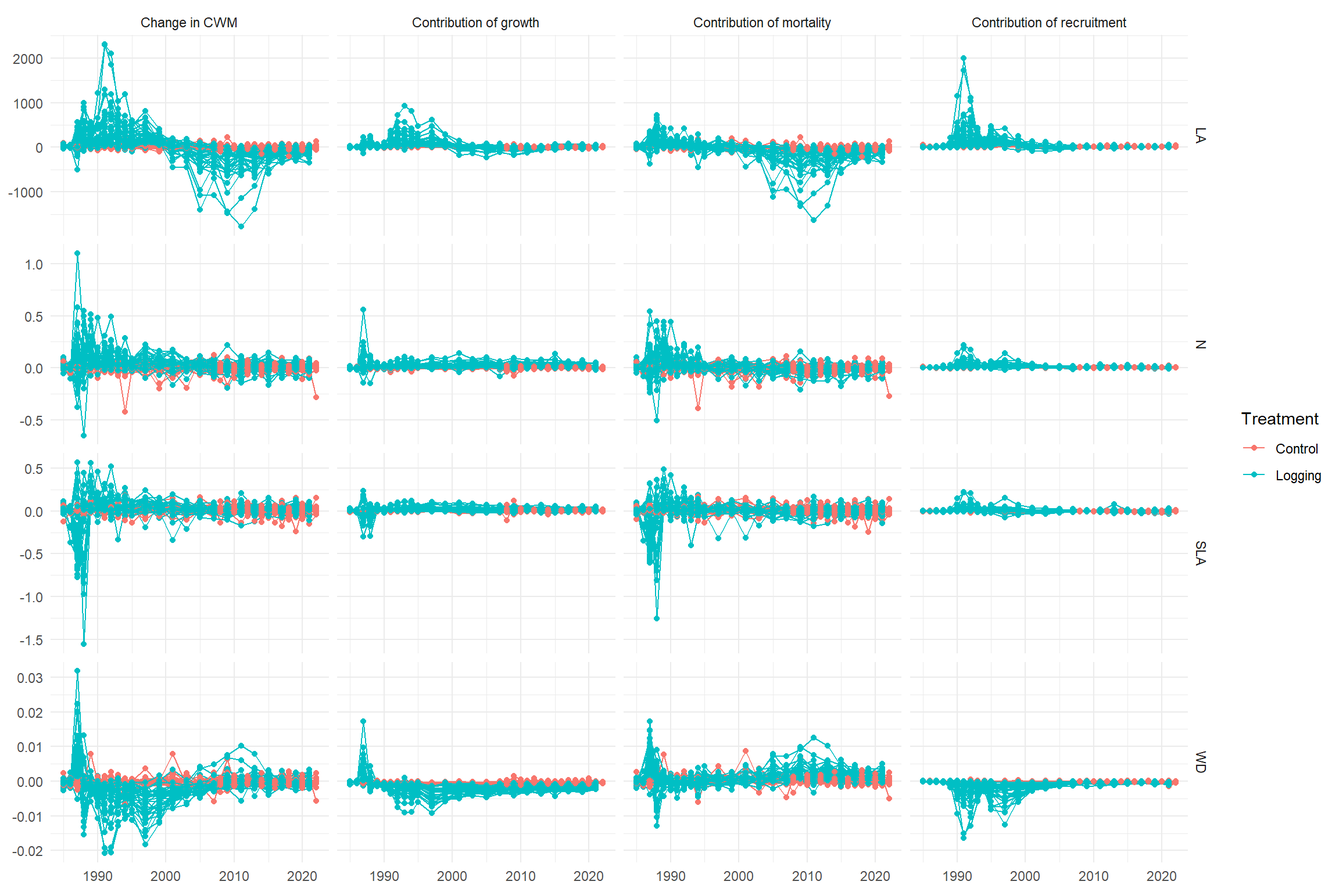
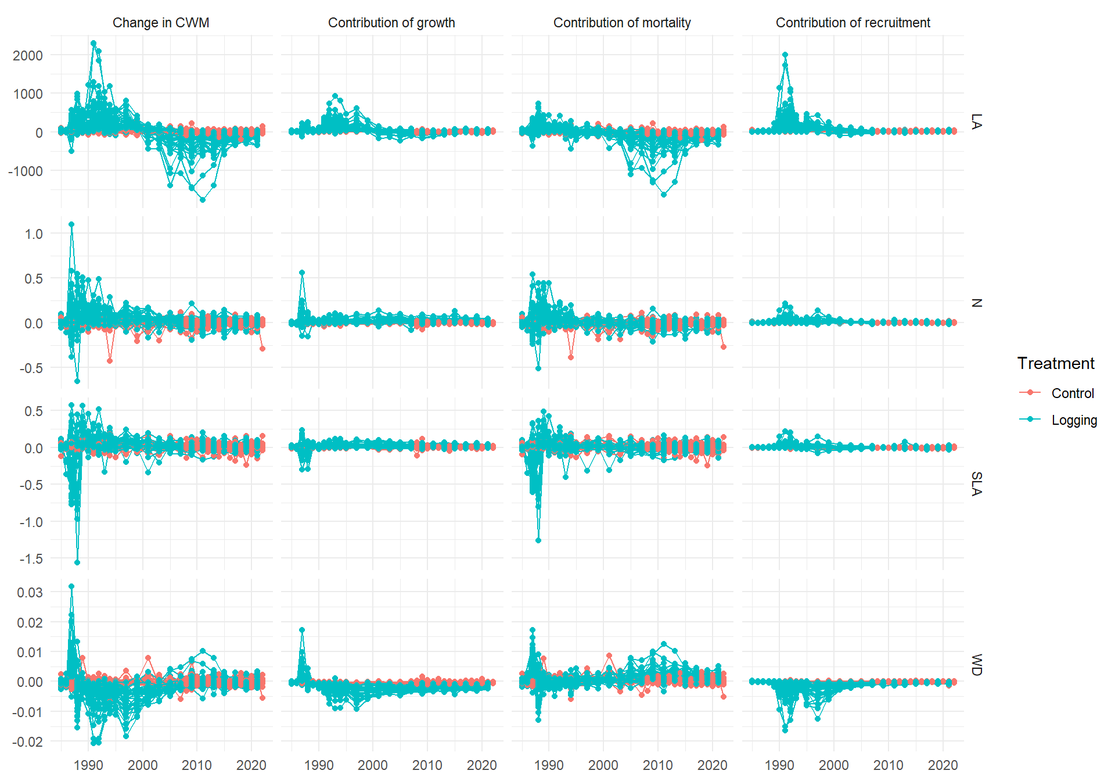
improve readability of CWD data visualisation

diff --git a/docs/31_cwd_productivity.html b/docs/31_cwd_productivity.html
@@ -276,8 +276,8 @@ window.Quarto = {
   <li><a href="#data" id="toc-data" class="nav-link" data-scroll-target="#data">Data</a>
   <ul class="collapse">
   <li><a href="#annual-changes" id="toc-annual-changes" class="nav-link" data-scroll-target="#annual-changes">Annual changes</a></li>
-  </ul></li>
   <li><a href="#cumulative-changes" id="toc-cumulative-changes" class="nav-link" data-scroll-target="#cumulative-changes">Cumulative changes</a></li>
+  </ul></li>
   </ul>
 </nav>
     </div>
@@ -329,191 +329,40 @@ window.Quarto = {
 </div>
 <section id="annual-changes" class="level3">
 <h3 class="anchored" data-anchor-id="annual-changes">Annual changes</h3>
-<div class="cell">
-<details class="code-fold">
-<summary>Code</summary>
-<div class="sourceCode cell-code" id="cb2"><pre class="sourceCode r code-with-copy"><code class="sourceCode r"><span id="cb2-1"><a href="#cb2-1" aria-hidden="true" tabindex="-1"></a>labs_flux <span class="ot">&lt;-</span> <span class="fu">c</span>(</span>
-<span id="cb2-2"><a href="#cb2-2" aria-hidden="true" tabindex="-1"></a>  <span class="at">all =</span> <span class="st">"Change in CWM"</span>,</span>
-<span id="cb2-3"><a href="#cb2-3" aria-hidden="true" tabindex="-1"></a>  <span class="at">rba =</span> <span class="st">"Contribution of recruitment"</span>,</span>
-<span id="cb2-4"><a href="#cb2-4" aria-hidden="true" tabindex="-1"></a>  <span class="at">gba =</span> <span class="st">"Contribution of growth"</span>,</span>
-<span id="cb2-5"><a href="#cb2-5" aria-hidden="true" tabindex="-1"></a>  <span class="at">mba =</span> <span class="st">"Contribution of mortality"</span></span>
-<span id="cb2-6"><a href="#cb2-6" aria-hidden="true" tabindex="-1"></a>)</span>
-<span id="cb2-7"><a href="#cb2-7" aria-hidden="true" tabindex="-1"></a>data <span class="sc">|&gt;</span></span>
-<span id="cb2-8"><a href="#cb2-8" aria-hidden="true" tabindex="-1"></a>  <span class="fu">filter</span>(Site <span class="sc">==</span> <span class="st">"Paracou"</span>) <span class="sc">|&gt;</span></span>
-<span id="cb2-9"><a href="#cb2-9" aria-hidden="true" tabindex="-1"></a>  <span class="fu">ggplot</span>(<span class="fu">aes</span>(<span class="at">x =</span> Year, <span class="at">y =</span> value, <span class="at">group =</span> plot_new, <span class="at">col =</span> Treatment)) <span class="sc">+</span></span>
-<span id="cb2-10"><a href="#cb2-10" aria-hidden="true" tabindex="-1"></a>  <span class="fu">geom_line</span>() <span class="sc">+</span></span>
-<span id="cb2-11"><a href="#cb2-11" aria-hidden="true" tabindex="-1"></a>  <span class="fu">geom_point</span>() <span class="sc">+</span></span>
-<span id="cb2-12"><a href="#cb2-12" aria-hidden="true" tabindex="-1"></a>  <span class="fu">facet_grid</span>(trait <span class="sc">~</span> flux,</span>
-<span id="cb2-13"><a href="#cb2-13" aria-hidden="true" tabindex="-1"></a>    <span class="at">scales =</span> <span class="st">"free"</span>,</span>
-<span id="cb2-14"><a href="#cb2-14" aria-hidden="true" tabindex="-1"></a>    <span class="at">labeller =</span> <span class="fu">labeller</span>(<span class="at">flux =</span> labs_flux)</span>
-<span id="cb2-15"><a href="#cb2-15" aria-hidden="true" tabindex="-1"></a>  ) <span class="sc">+</span></span>
-<span id="cb2-16"><a href="#cb2-16" aria-hidden="true" tabindex="-1"></a>  <span class="fu">labs</span>(<span class="at">y =</span> <span class="cn">NULL</span>, <span class="at">x =</span> <span class="cn">NULL</span>) <span class="sc">+</span></span>
-<span id="cb2-17"><a href="#cb2-17" aria-hidden="true" tabindex="-1"></a>  <span class="fu">theme_minimal</span>()</span></code><button title="Copy to Clipboard" class="code-copy-button"><i class="bi"></i></button></pre></div>
-</details>
-<div class="cell-output-display">
-<div>
-<figure class="figure">
-<p><img src="31_cwd_productivity_files/figure-html/unnamed-chunk-2-1.png" class="img-fluid figure-img" width="1152"></p>
-</figure>
+<div class="tabset-margin-container"></div><div class="panel-tabset">
+<ul class="nav nav-tabs" role="tablist"><li class="nav-item" role="presentation"><a class="nav-link active" id="tabset-1-1-tab" data-bs-toggle="tab" data-bs-target="#tabset-1-1" role="tab" aria-controls="tabset-1-1" aria-selected="true" aria-current="page">Paracou</a></li><li class="nav-item" role="presentation"><a class="nav-link" id="tabset-1-2-tab" data-bs-toggle="tab" data-bs-target="#tabset-1-2" role="tab" aria-controls="tabset-1-2" aria-selected="false">Mbaiki</a></li><li class="nav-item" role="presentation"><a class="nav-link" id="tabset-1-3-tab" data-bs-toggle="tab" data-bs-target="#tabset-1-3" role="tab" aria-controls="tabset-1-3" aria-selected="false">SUAS</a></li></ul>
+<div class="tab-content">
+<div id="tabset-1-1" class="tab-pane active" role="tabpanel" aria-labelledby="tabset-1-1-tab">
+<p><img src="31_cwd_productivity_files/figure-html/unnamed-chunk-2-1.png" class="img-fluid" width="960"></p>
 </div>
+<div id="tabset-1-2" class="tab-pane" role="tabpanel" aria-labelledby="tabset-1-2-tab">
+<p><img src="31_cwd_productivity_files/figure-html/unnamed-chunk-2-2.png" class="img-fluid" width="960"></p>
 </div>
-</div>
-<div class="cell">
-<details class="code-fold">
-<summary>Code</summary>
-<div class="sourceCode cell-code" id="cb3"><pre class="sourceCode r code-with-copy"><code class="sourceCode r"><span id="cb3-1"><a href="#cb3-1" aria-hidden="true" tabindex="-1"></a>labs_flux <span class="ot">&lt;-</span> <span class="fu">c</span>(</span>
-<span id="cb3-2"><a href="#cb3-2" aria-hidden="true" tabindex="-1"></a>  <span class="at">all =</span> <span class="st">"Change in CWM"</span>, <span class="at">rba =</span> <span class="st">"Contribution of recruitment"</span>,</span>
-<span id="cb3-3"><a href="#cb3-3" aria-hidden="true" tabindex="-1"></a>  <span class="at">gba =</span> <span class="st">"Contribution of growth"</span>,</span>
-<span id="cb3-4"><a href="#cb3-4" aria-hidden="true" tabindex="-1"></a>  <span class="at">mba =</span> <span class="st">"Contribution of mortality"</span></span>
-<span id="cb3-5"><a href="#cb3-5" aria-hidden="true" tabindex="-1"></a>)</span>
-<span id="cb3-6"><a href="#cb3-6" aria-hidden="true" tabindex="-1"></a>data <span class="sc">|&gt;</span></span>
-<span id="cb3-7"><a href="#cb3-7" aria-hidden="true" tabindex="-1"></a>  <span class="fu">filter</span>(Site <span class="sc">==</span> <span class="st">"Mbaiki"</span>) <span class="sc">|&gt;</span></span>
-<span id="cb3-8"><a href="#cb3-8" aria-hidden="true" tabindex="-1"></a>  <span class="fu">ggplot</span>(<span class="fu">aes</span>(<span class="at">x =</span> Year, <span class="at">y =</span> value, <span class="at">group =</span> plot_new, <span class="at">col =</span> Treatment)) <span class="sc">+</span></span>
-<span id="cb3-9"><a href="#cb3-9" aria-hidden="true" tabindex="-1"></a>  <span class="fu">geom_line</span>() <span class="sc">+</span></span>
-<span id="cb3-10"><a href="#cb3-10" aria-hidden="true" tabindex="-1"></a>  <span class="fu">geom_point</span>() <span class="sc">+</span></span>
-<span id="cb3-11"><a href="#cb3-11" aria-hidden="true" tabindex="-1"></a>  <span class="fu">facet_grid</span>(trait <span class="sc">~</span> flux,</span>
-<span id="cb3-12"><a href="#cb3-12" aria-hidden="true" tabindex="-1"></a>    <span class="at">scales =</span> <span class="st">"free"</span>,</span>
-<span id="cb3-13"><a href="#cb3-13" aria-hidden="true" tabindex="-1"></a>    <span class="at">labeller =</span> <span class="fu">labeller</span>(<span class="at">flux =</span> labs_flux)</span>
-<span id="cb3-14"><a href="#cb3-14" aria-hidden="true" tabindex="-1"></a>  ) <span class="sc">+</span></span>
-<span id="cb3-15"><a href="#cb3-15" aria-hidden="true" tabindex="-1"></a>  <span class="fu">labs</span>(<span class="at">y =</span> <span class="cn">NULL</span>, <span class="at">x =</span> <span class="cn">NULL</span>) <span class="sc">+</span></span>
-<span id="cb3-16"><a href="#cb3-16" aria-hidden="true" tabindex="-1"></a>  <span class="fu">theme_minimal</span>()</span></code><button title="Copy to Clipboard" class="code-copy-button"><i class="bi"></i></button></pre></div>
-</details>
-<div class="cell-output-display">
-<div>
-<figure class="figure">
-<p><img src="31_cwd_productivity_files/figure-html/unnamed-chunk-3-1.png" class="img-fluid figure-img" width="1152"></p>
-</figure>
-</div>
-</div>
-</div>
-<div class="cell">
-<details class="code-fold">
-<summary>Code</summary>
-<div class="sourceCode cell-code" id="cb4"><pre class="sourceCode r code-with-copy"><code class="sourceCode r"><span id="cb4-1"><a href="#cb4-1" aria-hidden="true" tabindex="-1"></a>labs_flux <span class="ot">&lt;-</span> <span class="fu">c</span>(</span>
-<span id="cb4-2"><a href="#cb4-2" aria-hidden="true" tabindex="-1"></a>  <span class="at">all =</span> <span class="st">"Change in CWM"</span>, <span class="at">rba =</span> <span class="st">"Contribution of recruitment"</span>,</span>
-<span id="cb4-3"><a href="#cb4-3" aria-hidden="true" tabindex="-1"></a>  <span class="at">gba =</span> <span class="st">"Contribution of growth"</span>,</span>
-<span id="cb4-4"><a href="#cb4-4" aria-hidden="true" tabindex="-1"></a>  <span class="at">mba =</span> <span class="st">"Contribution of mortality"</span></span>
-<span id="cb4-5"><a href="#cb4-5" aria-hidden="true" tabindex="-1"></a>)</span>
-<span id="cb4-6"><a href="#cb4-6" aria-hidden="true" tabindex="-1"></a>data <span class="sc">|&gt;</span></span>
-<span id="cb4-7"><a href="#cb4-7" aria-hidden="true" tabindex="-1"></a>  <span class="fu">filter</span>(Site <span class="sc">==</span> <span class="st">"SUAS"</span>) <span class="sc">|&gt;</span></span>
-<span id="cb4-8"><a href="#cb4-8" aria-hidden="true" tabindex="-1"></a>  <span class="fu">ggplot</span>(<span class="fu">aes</span>(<span class="at">x =</span> Year, <span class="at">y =</span> value, <span class="at">group =</span> plot_new, <span class="at">col =</span> Treatment)) <span class="sc">+</span></span>
-<span id="cb4-9"><a href="#cb4-9" aria-hidden="true" tabindex="-1"></a>  <span class="fu">geom_line</span>() <span class="sc">+</span></span>
-<span id="cb4-10"><a href="#cb4-10" aria-hidden="true" tabindex="-1"></a>  <span class="fu">geom_point</span>() <span class="sc">+</span></span>
-<span id="cb4-11"><a href="#cb4-11" aria-hidden="true" tabindex="-1"></a>  <span class="fu">facet_grid</span>(trait <span class="sc">~</span> flux,</span>
-<span id="cb4-12"><a href="#cb4-12" aria-hidden="true" tabindex="-1"></a>    <span class="at">scales =</span> <span class="st">"free"</span>,</span>
-<span id="cb4-13"><a href="#cb4-13" aria-hidden="true" tabindex="-1"></a>    <span class="at">labeller =</span> <span class="fu">labeller</span>(<span class="at">flux =</span> labs_flux)</span>
-<span id="cb4-14"><a href="#cb4-14" aria-hidden="true" tabindex="-1"></a>  ) <span class="sc">+</span></span>
-<span id="cb4-15"><a href="#cb4-15" aria-hidden="true" tabindex="-1"></a>  <span class="fu">labs</span>(<span class="at">y =</span> <span class="cn">NULL</span>, <span class="at">x =</span> <span class="cn">NULL</span>) <span class="sc">+</span></span>
-<span id="cb4-16"><a href="#cb4-16" aria-hidden="true" tabindex="-1"></a>  <span class="fu">theme_minimal</span>()</span></code><button title="Copy to Clipboard" class="code-copy-button"><i class="bi"></i></button></pre></div>
-</details>
-<div class="cell-output-display">
-<div>
-<figure class="figure">
-<p><img src="31_cwd_productivity_files/figure-html/unnamed-chunk-4-1.png" class="img-fluid figure-img" width="1152"></p>
-</figure>
+<div id="tabset-1-3" class="tab-pane" role="tabpanel" aria-labelledby="tabset-1-3-tab">
+<p><img src="31_cwd_productivity_files/figure-html/unnamed-chunk-2-3.png" class="img-fluid" width="960"></p>
 </div>
 </div>
 </div>
 </section>
-</section>
-<section id="cumulative-changes" class="level2">
-<h2 class="anchored" data-anchor-id="cumulative-changes">Cumulative changes</h2>
-<div class="cell">
-<details class="code-fold">
-<summary>Code</summary>
-<div class="sourceCode cell-code" id="cb5"><pre class="sourceCode r code-with-copy"><code class="sourceCode r"><span id="cb5-1"><a href="#cb5-1" aria-hidden="true" tabindex="-1"></a>labs_flux <span class="ot">&lt;-</span> <span class="fu">c</span>(</span>
-<span id="cb5-2"><a href="#cb5-2" aria-hidden="true" tabindex="-1"></a>  <span class="at">all =</span> <span class="st">"Change in CWM"</span>,</span>
-<span id="cb5-3"><a href="#cb5-3" aria-hidden="true" tabindex="-1"></a>  <span class="at">rba =</span> <span class="st">"Contribution of recruitment"</span>,</span>
-<span id="cb5-4"><a href="#cb5-4" aria-hidden="true" tabindex="-1"></a>  <span class="at">gba =</span> <span class="st">"Contribution of growth"</span>,</span>
-<span id="cb5-5"><a href="#cb5-5" aria-hidden="true" tabindex="-1"></a>  <span class="at">mba =</span> <span class="st">"Contribution of mortality"</span></span>
-<span id="cb5-6"><a href="#cb5-6" aria-hidden="true" tabindex="-1"></a>)</span>
-<span id="cb5-7"><a href="#cb5-7" aria-hidden="true" tabindex="-1"></a>data <span class="sc">|&gt;</span></span>
-<span id="cb5-8"><a href="#cb5-8" aria-hidden="true" tabindex="-1"></a>  <span class="fu">filter</span>(Site <span class="sc">==</span> <span class="st">"Paracou"</span>) <span class="sc">|&gt;</span></span>
-<span id="cb5-9"><a href="#cb5-9" aria-hidden="true" tabindex="-1"></a>  <span class="fu">arrange</span>(Site, plot_new, Year) <span class="sc">|&gt;</span></span>
-<span id="cb5-10"><a href="#cb5-10" aria-hidden="true" tabindex="-1"></a>  <span class="fu">group_by</span>(Site, plot_new, trait, flux) <span class="sc">|&gt;</span> </span>
-<span id="cb5-11"><a href="#cb5-11" aria-hidden="true" tabindex="-1"></a>  <span class="fu">mutate</span>(<span class="at">value_cum =</span> <span class="fu">cumsum</span>(value)) <span class="sc">|&gt;</span> </span>
-<span id="cb5-12"><a href="#cb5-12" aria-hidden="true" tabindex="-1"></a>  <span class="fu">ggplot</span>(<span class="fu">aes</span>(<span class="at">x =</span> Year, <span class="at">y =</span> value_cum, <span class="at">group =</span> plot_new, <span class="at">col =</span> Treatment)) <span class="sc">+</span></span>
-<span id="cb5-13"><a href="#cb5-13" aria-hidden="true" tabindex="-1"></a>  <span class="fu">geom_line</span>() <span class="sc">+</span></span>
-<span id="cb5-14"><a href="#cb5-14" aria-hidden="true" tabindex="-1"></a>  <span class="fu">geom_point</span>() <span class="sc">+</span></span>
-<span id="cb5-15"><a href="#cb5-15" aria-hidden="true" tabindex="-1"></a>  <span class="fu">facet_grid</span>(trait <span class="sc">~</span> flux,</span>
-<span id="cb5-16"><a href="#cb5-16" aria-hidden="true" tabindex="-1"></a>    <span class="at">scales =</span> <span class="st">"free"</span>,</span>
-<span id="cb5-17"><a href="#cb5-17" aria-hidden="true" tabindex="-1"></a>    <span class="at">labeller =</span> <span class="fu">labeller</span>(<span class="at">flux =</span> labs_flux)</span>
-<span id="cb5-18"><a href="#cb5-18" aria-hidden="true" tabindex="-1"></a>  ) <span class="sc">+</span></span>
-<span id="cb5-19"><a href="#cb5-19" aria-hidden="true" tabindex="-1"></a>  <span class="fu">labs</span>(<span class="at">y =</span> <span class="cn">NULL</span>, <span class="at">x =</span> <span class="cn">NULL</span>) <span class="sc">+</span></span>
-<span id="cb5-20"><a href="#cb5-20" aria-hidden="true" tabindex="-1"></a>  <span class="fu">theme_minimal</span>()</span></code><button title="Copy to Clipboard" class="code-copy-button"><i class="bi"></i></button></pre></div>
-</details>
-<div class="cell-output-display">
-<div>
-<figure class="figure">
-<p><img src="31_cwd_productivity_files/figure-html/unnamed-chunk-5-1.png" class="img-fluid figure-img" width="1152"></p>
-</figure>
+<section id="cumulative-changes" class="level3">
+<h3 class="anchored" data-anchor-id="cumulative-changes">Cumulative changes</h3>
+<div class="tabset-margin-container"></div><div class="panel-tabset">
+<ul class="nav nav-tabs" role="tablist"><li class="nav-item" role="presentation"><a class="nav-link active" id="tabset-2-1-tab" data-bs-toggle="tab" data-bs-target="#tabset-2-1" role="tab" aria-controls="tabset-2-1" aria-selected="true">Paracou</a></li><li class="nav-item" role="presentation"><a class="nav-link" id="tabset-2-2-tab" data-bs-toggle="tab" data-bs-target="#tabset-2-2" role="tab" aria-controls="tabset-2-2" aria-selected="false">Mbaiki</a></li><li class="nav-item" role="presentation"><a class="nav-link" id="tabset-2-3-tab" data-bs-toggle="tab" data-bs-target="#tabset-2-3" role="tab" aria-controls="tabset-2-3" aria-selected="false">SUAS</a></li></ul>
+<div class="tab-content">
+<div id="tabset-2-1" class="tab-pane active" role="tabpanel" aria-labelledby="tabset-2-1-tab">
+<p><img src="31_cwd_productivity_files/figure-html/unnamed-chunk-3-1.png" class="img-fluid" width="960"></p>
 </div>
+<div id="tabset-2-2" class="tab-pane" role="tabpanel" aria-labelledby="tabset-2-2-tab">
+<p><img src="31_cwd_productivity_files/figure-html/unnamed-chunk-3-2.png" class="img-fluid" width="960"></p>
 </div>
-</div>
-<div class="cell">
-<details class="code-fold">
-<summary>Code</summary>
-<div class="sourceCode cell-code" id="cb6"><pre class="sourceCode r code-with-copy"><code class="sourceCode r"><span id="cb6-1"><a href="#cb6-1" aria-hidden="true" tabindex="-1"></a>labs_flux <span class="ot">&lt;-</span> <span class="fu">c</span>(</span>
-<span id="cb6-2"><a href="#cb6-2" aria-hidden="true" tabindex="-1"></a>  <span class="at">all =</span> <span class="st">"Change in CWM"</span>, <span class="at">rba =</span> <span class="st">"Contribution of recruitment"</span>,</span>
-<span id="cb6-3"><a href="#cb6-3" aria-hidden="true" tabindex="-1"></a>  <span class="at">gba =</span> <span class="st">"Contribution of growth"</span>,</span>
-<span id="cb6-4"><a href="#cb6-4" aria-hidden="true" tabindex="-1"></a>  <span class="at">mba =</span> <span class="st">"Contribution of mortality"</span></span>
-<span id="cb6-5"><a href="#cb6-5" aria-hidden="true" tabindex="-1"></a>)</span>
-<span id="cb6-6"><a href="#cb6-6" aria-hidden="true" tabindex="-1"></a>data <span class="sc">|&gt;</span></span>
-<span id="cb6-7"><a href="#cb6-7" aria-hidden="true" tabindex="-1"></a>  <span class="fu">filter</span>(Site <span class="sc">==</span> <span class="st">"Mbaiki"</span>) <span class="sc">|&gt;</span></span>
-<span id="cb6-8"><a href="#cb6-8" aria-hidden="true" tabindex="-1"></a>  <span class="fu">arrange</span>(Site, plot_new, Year) <span class="sc">|&gt;</span></span>
-<span id="cb6-9"><a href="#cb6-9" aria-hidden="true" tabindex="-1"></a>  <span class="fu">group_by</span>(Site, plot_new, trait, flux) <span class="sc">|&gt;</span> </span>
-<span id="cb6-10"><a href="#cb6-10" aria-hidden="true" tabindex="-1"></a>  <span class="fu">mutate</span>(<span class="at">value_cum =</span> <span class="fu">cumsum</span>(value)) <span class="sc">|&gt;</span> </span>
-<span id="cb6-11"><a href="#cb6-11" aria-hidden="true" tabindex="-1"></a>  <span class="fu">ggplot</span>(<span class="fu">aes</span>(<span class="at">x =</span> Year, <span class="at">y =</span> value_cum, <span class="at">group =</span> plot_new, <span class="at">col =</span> Treatment)) <span class="sc">+</span></span>
-<span id="cb6-12"><a href="#cb6-12" aria-hidden="true" tabindex="-1"></a>  <span class="fu">geom_line</span>() <span class="sc">+</span></span>
-<span id="cb6-13"><a href="#cb6-13" aria-hidden="true" tabindex="-1"></a>  <span class="fu">geom_point</span>() <span class="sc">+</span></span>
-<span id="cb6-14"><a href="#cb6-14" aria-hidden="true" tabindex="-1"></a>  <span class="fu">facet_grid</span>(trait <span class="sc">~</span> flux,</span>
-<span id="cb6-15"><a href="#cb6-15" aria-hidden="true" tabindex="-1"></a>    <span class="at">scales =</span> <span class="st">"free"</span>,</span>
-<span id="cb6-16"><a href="#cb6-16" aria-hidden="true" tabindex="-1"></a>    <span class="at">labeller =</span> <span class="fu">labeller</span>(<span class="at">flux =</span> labs_flux)</span>
-<span id="cb6-17"><a href="#cb6-17" aria-hidden="true" tabindex="-1"></a>  ) <span class="sc">+</span></span>
-<span id="cb6-18"><a href="#cb6-18" aria-hidden="true" tabindex="-1"></a>  <span class="fu">labs</span>(<span class="at">y =</span> <span class="cn">NULL</span>, <span class="at">x =</span> <span class="cn">NULL</span>) <span class="sc">+</span></span>
-<span id="cb6-19"><a href="#cb6-19" aria-hidden="true" tabindex="-1"></a>  <span class="fu">theme_minimal</span>()</span></code><button title="Copy to Clipboard" class="code-copy-button"><i class="bi"></i></button></pre></div>
-</details>
-<div class="cell-output-display">
-<div>
-<figure class="figure">
-<p><img src="31_cwd_productivity_files/figure-html/unnamed-chunk-6-1.png" class="img-fluid figure-img" width="1152"></p>
-</figure>
-</div>
-</div>
-</div>
-<div class="cell">
-<details class="code-fold">
-<summary>Code</summary>
-<div class="sourceCode cell-code" id="cb7"><pre class="sourceCode r code-with-copy"><code class="sourceCode r"><span id="cb7-1"><a href="#cb7-1" aria-hidden="true" tabindex="-1"></a>labs_flux <span class="ot">&lt;-</span> <span class="fu">c</span>(</span>
-<span id="cb7-2"><a href="#cb7-2" aria-hidden="true" tabindex="-1"></a>  <span class="at">all =</span> <span class="st">"Change in CWM"</span>, <span class="at">rba =</span> <span class="st">"Contribution of recruitment"</span>,</span>
-<span id="cb7-3"><a href="#cb7-3" aria-hidden="true" tabindex="-1"></a>  <span class="at">gba =</span> <span class="st">"Contribution of growth"</span>,</span>
-<span id="cb7-4"><a href="#cb7-4" aria-hidden="true" tabindex="-1"></a>  <span class="at">mba =</span> <span class="st">"Contribution of mortality"</span></span>
-<span id="cb7-5"><a href="#cb7-5" aria-hidden="true" tabindex="-1"></a>)</span>
-<span id="cb7-6"><a href="#cb7-6" aria-hidden="true" tabindex="-1"></a>data <span class="sc">|&gt;</span></span>
-<span id="cb7-7"><a href="#cb7-7" aria-hidden="true" tabindex="-1"></a>  <span class="fu">filter</span>(Site <span class="sc">==</span> <span class="st">"SUAS"</span>) <span class="sc">|&gt;</span></span>
-<span id="cb7-8"><a href="#cb7-8" aria-hidden="true" tabindex="-1"></a>  <span class="fu">arrange</span>(Site, plot_new, Year) <span class="sc">|&gt;</span></span>
-<span id="cb7-9"><a href="#cb7-9" aria-hidden="true" tabindex="-1"></a>  <span class="fu">group_by</span>(Site, plot_new, trait, flux) <span class="sc">|&gt;</span> </span>
-<span id="cb7-10"><a href="#cb7-10" aria-hidden="true" tabindex="-1"></a>  <span class="fu">mutate</span>(<span class="at">value_cum =</span> <span class="fu">cumsum</span>(value)) <span class="sc">|&gt;</span> </span>
-<span id="cb7-11"><a href="#cb7-11" aria-hidden="true" tabindex="-1"></a>  <span class="fu">ggplot</span>(<span class="fu">aes</span>(<span class="at">x =</span> Year, <span class="at">y =</span> value_cum, <span class="at">group =</span> plot_new, <span class="at">col =</span> Treatment)) <span class="sc">+</span></span>
-<span id="cb7-12"><a href="#cb7-12" aria-hidden="true" tabindex="-1"></a>  <span class="fu">geom_line</span>() <span class="sc">+</span></span>
-<span id="cb7-13"><a href="#cb7-13" aria-hidden="true" tabindex="-1"></a>  <span class="fu">geom_point</span>() <span class="sc">+</span></span>
-<span id="cb7-14"><a href="#cb7-14" aria-hidden="true" tabindex="-1"></a>  <span class="fu">facet_grid</span>(trait <span class="sc">~</span> flux,</span>
-<span id="cb7-15"><a href="#cb7-15" aria-hidden="true" tabindex="-1"></a>    <span class="at">scales =</span> <span class="st">"free"</span>,</span>
-<span id="cb7-16"><a href="#cb7-16" aria-hidden="true" tabindex="-1"></a>    <span class="at">labeller =</span> <span class="fu">labeller</span>(<span class="at">flux =</span> labs_flux)</span>
-<span id="cb7-17"><a href="#cb7-17" aria-hidden="true" tabindex="-1"></a>  ) <span class="sc">+</span></span>
-<span id="cb7-18"><a href="#cb7-18" aria-hidden="true" tabindex="-1"></a>  <span class="fu">labs</span>(<span class="at">y =</span> <span class="cn">NULL</span>, <span class="at">x =</span> <span class="cn">NULL</span>) <span class="sc">+</span></span>
-<span id="cb7-19"><a href="#cb7-19" aria-hidden="true" tabindex="-1"></a>  <span class="fu">theme_minimal</span>()</span></code><button title="Copy to Clipboard" class="code-copy-button"><i class="bi"></i></button></pre></div>
-</details>
-<div class="cell-output-display">
-<div>
-<figure class="figure">
-<p><img src="31_cwd_productivity_files/figure-html/unnamed-chunk-7-1.png" class="img-fluid figure-img" width="1152"></p>
-</figure>
+<div id="tabset-2-3" class="tab-pane" role="tabpanel" aria-labelledby="tabset-2-3-tab">
+<p><img src="31_cwd_productivity_files/figure-html/unnamed-chunk-3-3.png" class="img-fluid" width="960"></p>
 </div>
 </div>
 </div>
 
 
+</section>
 </section>
 
 </main> <!-- /main -->

diff --git a/docs/24_expl_variables.html b/docs/24_expl_variables.html
@@ -231,6 +231,12 @@ window.Quarto = {
  <span class="menu-text">Composition change data</span></a>
   </div>
 </li>
+          <li class="sidebar-item">
+  <div class="sidebar-item-container"> 
+  <a href="./33_calibrate_cwd_model.html" class="sidebar-item-text sidebar-link">
+ <span class="menu-text">Model calibration</span></a>
+  </div>
+</li>
       </ul>
   </li>
         <li class="sidebar-item sidebar-item-section">
@@ -489,7 +495,7 @@ window.Quarto = {
 <span id="cb6-8"><a href="#cb6-8" aria-hidden="true" tabindex="-1"></a>    <span class="at">ba_0 =</span> value[Year <span class="sc">==</span> <span class="fu">min</span>(Year)],</span>
 <span id="cb6-9"><a href="#cb6-9" aria-hidden="true" tabindex="-1"></a>    <span class="at">ba_min =</span> <span class="fu">min</span>(value[Year <span class="sc">&gt;</span> Year_of_harvest <span class="sc">&amp;</span> Year <span class="sc">&lt;=</span> Year_of_harvest <span class="sc">+</span> <span class="dv">5</span>])</span>
 <span id="cb6-10"><a href="#cb6-10" aria-hidden="true" tabindex="-1"></a>  ) <span class="sc">|&gt;</span></span>
-<span id="cb6-11"><a href="#cb6-11" aria-hidden="true" tabindex="-1"></a>  <span class="fu">mutate</span>(<span class="at">intensity =</span> (ba_0 <span class="sc">-</span> ba_min) <span class="sc">/</span> ba_0) <span class="sc">|&gt;</span> </span>
+<span id="cb6-11"><a href="#cb6-11" aria-hidden="true" tabindex="-1"></a>  <span class="fu">mutate</span>(<span class="at">intensity =</span> (ba_0 <span class="sc">-</span> ba_min) <span class="sc">/</span> ba_0) <span class="sc">|&gt;</span></span>
 <span id="cb6-12"><a href="#cb6-12" aria-hidden="true" tabindex="-1"></a>  <span class="fu">inner_join</span>(<span class="fu">filter</span>(params, variable <span class="sc">==</span> <span class="st">"int_p"</span>)) <span class="sc">|&gt;</span></span>
 <span id="cb6-13"><a href="#cb6-13" aria-hidden="true" tabindex="-1"></a>  <span class="fu">ggplot</span>(<span class="fu">aes</span>(intensity <span class="sc">*</span> <span class="dv">100</span>, median, <span class="at">col =</span> Site)) <span class="sc">+</span></span>
 <span id="cb6-14"><a href="#cb6-14" aria-hidden="true" tabindex="-1"></a>  <span class="fu">geom_pointrange</span>(<span class="fu">aes</span>(<span class="at">ymin =</span> q5, <span class="at">ymax =</span> q95)) <span class="sc">+</span></span>

diff --git a/docs/22_flux_model.html b/docs/22_flux_model.html
@@ -231,6 +231,12 @@ window.Quarto = {
  <span class="menu-text">Composition change data</span></a>
   </div>
 </li>
+          <li class="sidebar-item">
+  <div class="sidebar-item-container"> 
+  <a href="./33_calibrate_cwd_model.html" class="sidebar-item-text sidebar-link">
+ <span class="menu-text">Model calibration</span></a>
+  </div>
+</li>
       </ul>
   </li>
         <li class="sidebar-item sidebar-item-section">
